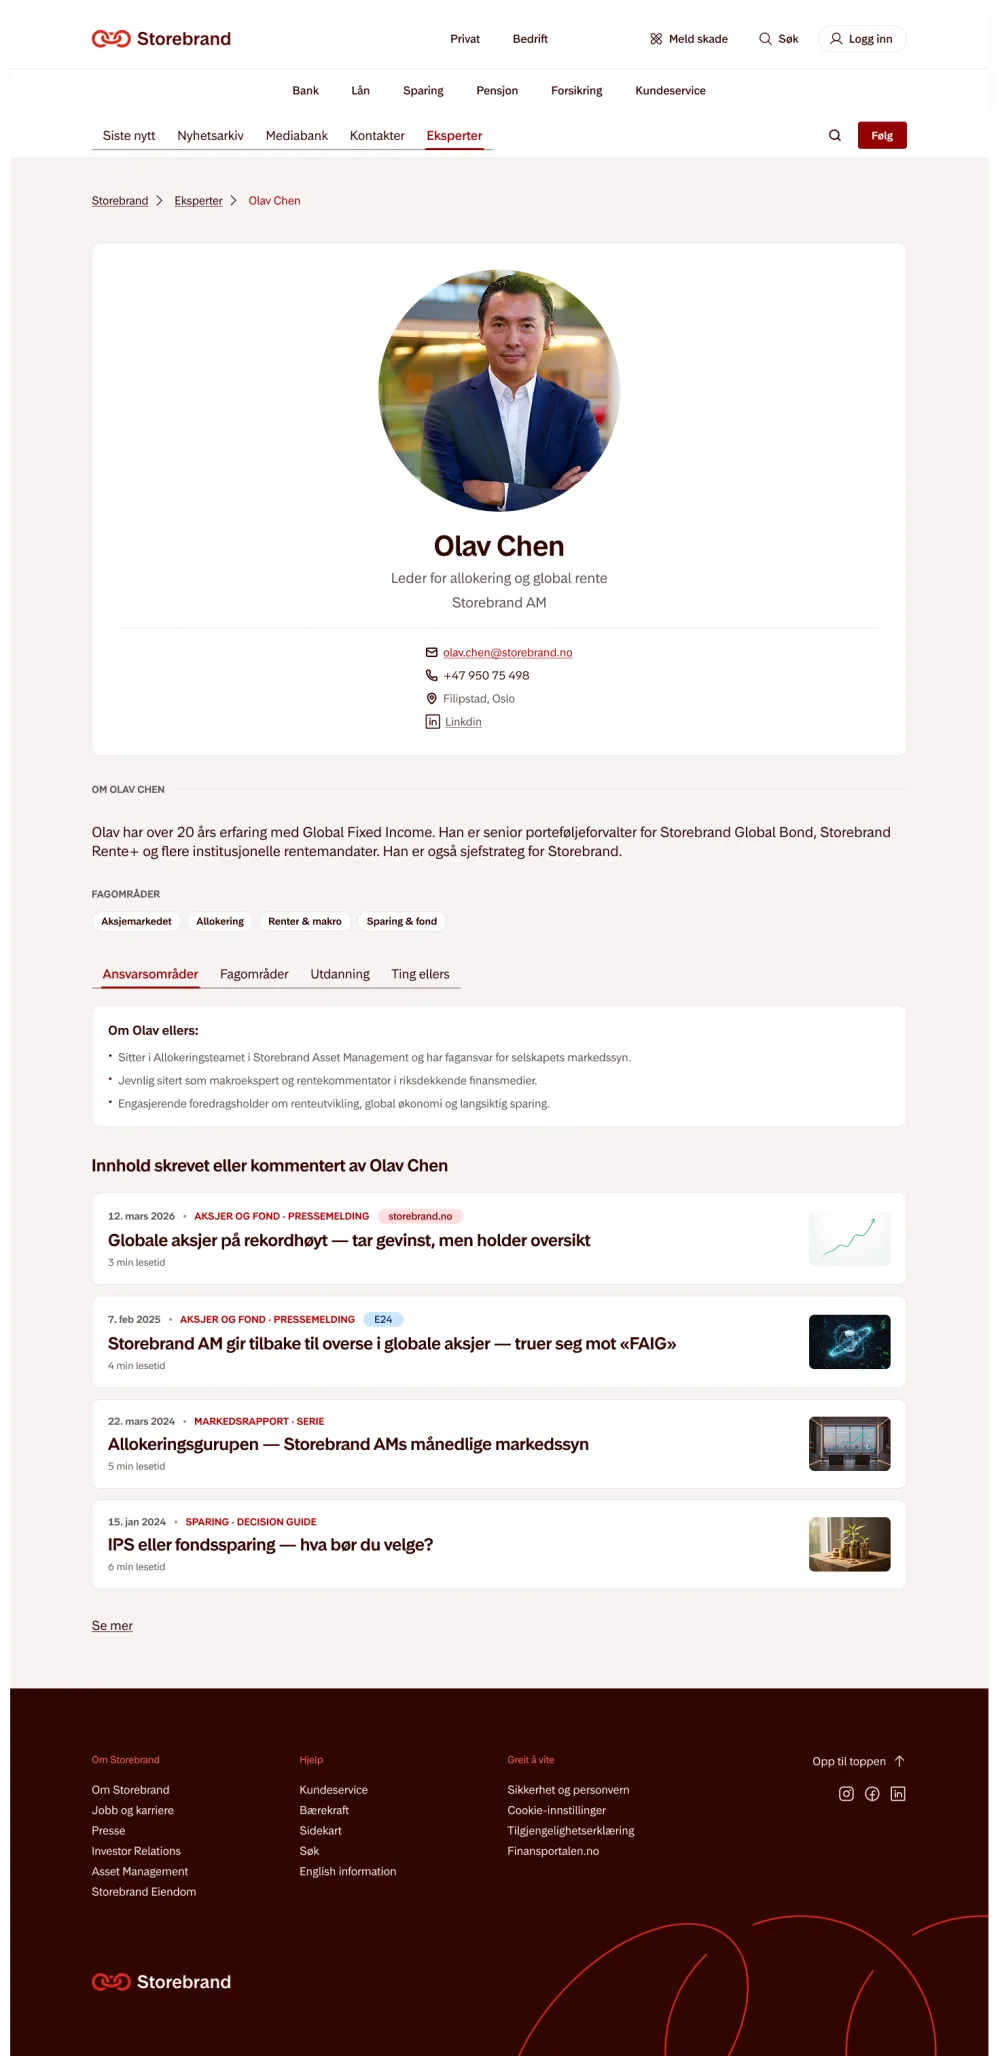
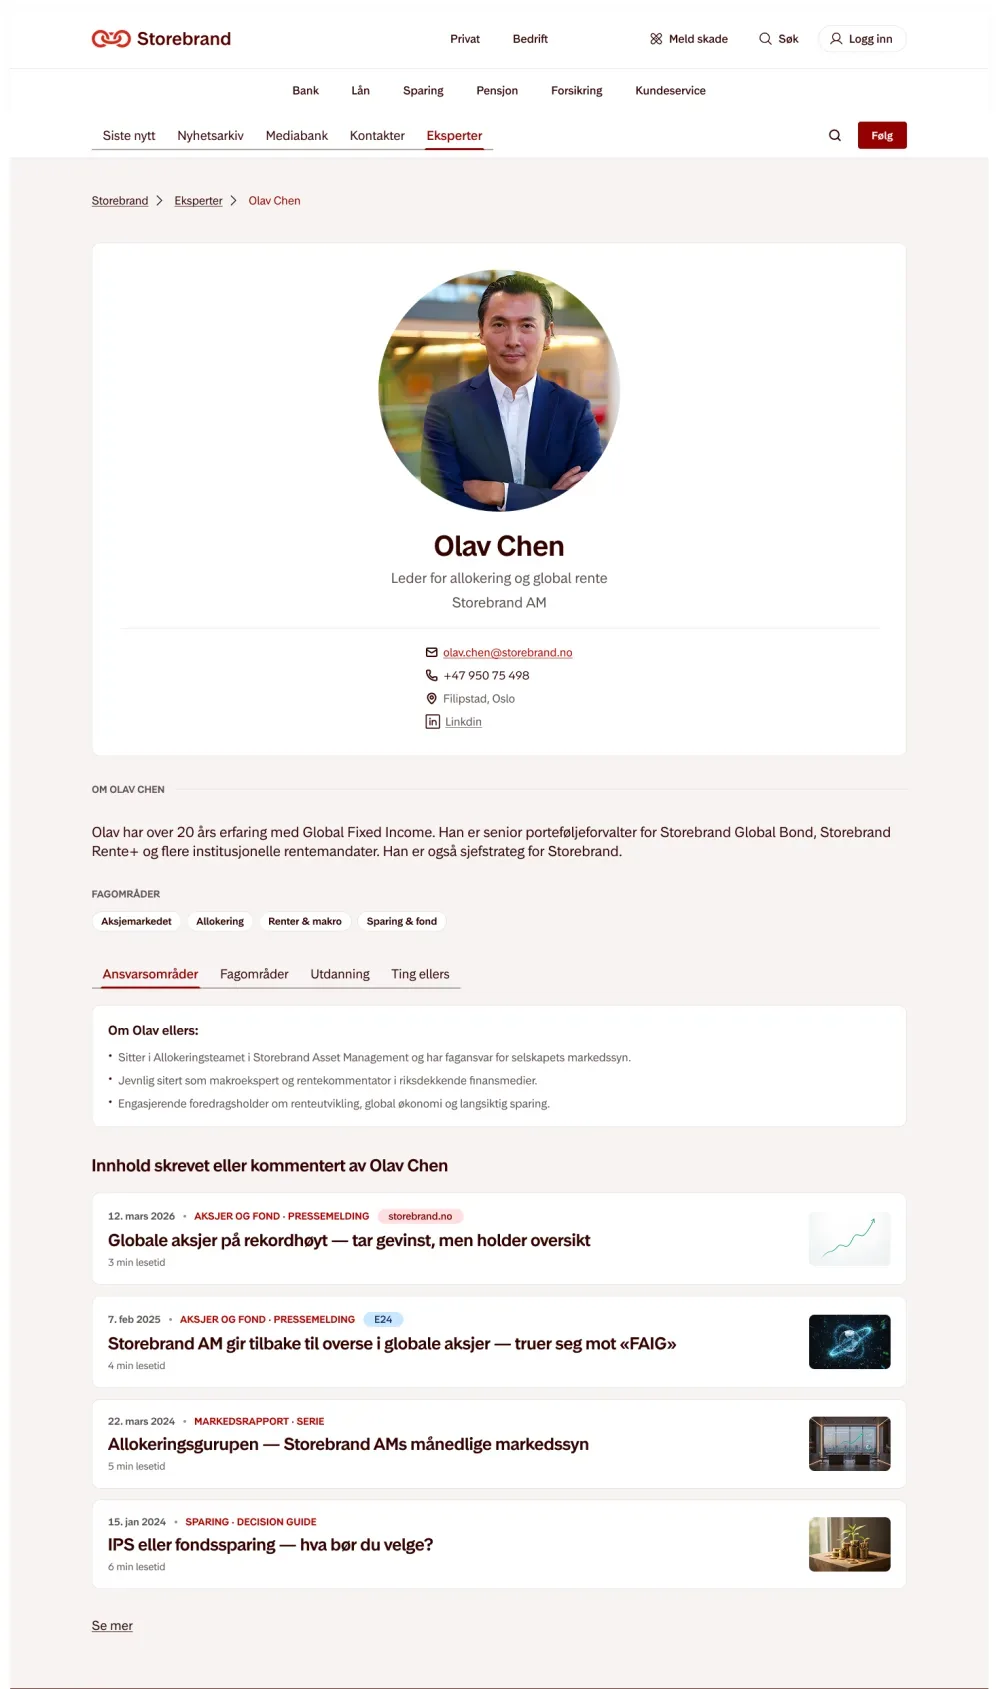
Bytt kontaktbildet og beskjær footeren av Storebrand-bildene
«I dag»-bildet på Oversikt-fanen er byttet til en ny skjermdump av
Kontakter-siden, og teksten sier nå at oversikten ligger under presse og
at rolle og fagområde mangler. Den setningen sto også i forslagsteksten
og er strøket der. Det gamle ekspertkort-presse.webp er slettet.

Footeren — den mørke flaten med lenkespaltene og logoen — er beskåret
bort på de fem bildene som hadde den: kontakter, storebrand-idag,
storebrand-etter, eksperter-oversikt og ekspertprofil. Til sammen 2,5 tusen
piksler høyde og 140 kB. width/height i koden følger de nye målene, så
nettleseren reserverer riktig plass.

Rammene i «I dag / Forslag» er like høye igjen, men bildet fyller dem nå
med object-fit: cover og beskjæres nedover. Den nye kontaktskjermdumpen
er 1:2,5, og skalert ned til å passe i en fast ramme ble den en smal
stripe. object-position: top holder toppen synlig, og et pluss nederst
på midten signaliserer at klikk åpner hele bildet.

.sb-shot fikk egne målregler for bildet framfor å arve dem fra
.sb-figure img — uten det rendrer bildet i sin egen pikselbredde når
knappen ligger utenfor en .sb-figure.

Forklaringen i tiltak 05 er kortet ned til én setning og sier nå at
AI-modeller vektlegger erfaring, ekspertise, autoritet og tillit, og at
profilene gjøres lesbare gjennom schema-markup og sameAs. Avsnittet om
skissene og de tre stikkordene under bildene er fjernet.

Claude-Session: https://claude.ai/code/session_01WZx12vgaZAjMBemNceu2g9

diff --git a/src/styles/storebrand.css b/src/styles/storebrand.css
@@ -407,6 +407,17 @@ body.case-storebrand {
   border-radius: 14px;
   overflow: hidden;
 }
+/* .sb-shot brukes både inne i .sb-figure og i .sb-pair, så bildet får sine egne
+   målregler her framfor å arve dem fra .sb-figure img. Uten dette rendrer bildet
+   i sin egen pikselbredde og blir klippet av overflow: hidden. */
+.sb-shot img {
+  display: block;
+  width: 100%;
+  height: auto;
+  border: 1px solid var(--line);
+  border-radius: 14px;
+  background: #fff;
+}
 .sb-shot.tall { max-height: 60vh; }
 .sb-shot.tall img { border-radius: 14px 14px 0 0; }
 .sb-shot.tall::after {
@@ -573,11 +584,9 @@ body.case-storebrand {
 .sb-ia-shot-title { display: block; color: var(--sb-ink); font-weight: 400; }
 
 /* ── I DAG / FORSLAG SIDE OM SIDE ── */
-/* Hvert forslag står ved siden av det det erstatter. Rammene er like høye og
-   skalerer hele skjermdumpen ned til å passe, så de to bildene står på linje
-   og alt innholdet er synlig uten å klikke. Merkelappen over er alltid én
-   linje, og forklaringen står under bildet — da starter begge bildene på
-   samme høyde uansett hvor lang teksten er. */
+/* Hvert forslag står ved siden av det det erstatter, i rammer av samme høyde.
+   Merkelappen over er alltid én linje, og forklaringen står under bildet — da
+   starter begge bildene på samme høyde uansett hvor lang teksten er. */
 .sb-pair {
   display: grid;
   grid-template-columns: 1fr;
@@ -586,24 +595,72 @@ body.case-storebrand {
   margin-top: 2rem;
 }
 .sb-pair .sb-ba-label { margin-bottom: 0.6rem; }
+/* Begge rammene er like høye. Skjermdumpene har vidt ulike høyde/bredde-forhold
+   — fra 1:1 til 1:2,5 — så bildet fyller rammen med object-fit: cover og
+   beskjæres nedover framfor å skaleres ned til en smal stripe.
+   object-position: top holder toppen av siden synlig, og klikk åpner hele. */
 .sb-pair-visual {
   display: block;
   width: 100%;
-  height: clamp(20rem, 46vw, 32rem);
-  padding: 1rem;
-  border: 1px solid var(--line);
+  height: clamp(18rem, 40vw, 30rem);
+  padding: 0;
+  border: 0;
+  background: none;
   border-radius: 14px;
-  background: #fff;
+  overflow: hidden;
+  position: relative;
   cursor: zoom-in;
 }
-/* Bildet fyller rammen, og object-fit: contain skalerer hele skjermdumpen ned
-   til å passe inni. Da kan det verken renne utenfor eller bli beskåret. */
 .sb-pair-visual img {
   display: block;
   width: 100%;
   height: 100%;
-  object-fit: contain;
+  object-fit: cover;
+  object-position: top;
+  border: 1px solid var(--line);
+  border-radius: 14px;
+  background: #fff;
 }
+/* Uttoning mot seksjonens papirbakgrunn, så det harde avklippet nederst
+   leses som tilsiktet. */
+.sb-pair-visual::after {
+  content: '';
+  position: absolute;
+  left: 0; right: 0; bottom: 0;
+  height: 32%;
+  pointer-events: none;
+  border-radius: 0 0 14px 14px;
+  background: linear-gradient(transparent, var(--sb-paper));
+}
+/* Her holder et pluss: rammen er beskåret, ikke en fullside, så den trenger
+   bare et signal om at bildet kan åpnes. Knappen har aria-label, derfor er
+   merket skjult for skjermlesere. Sirkelen står nederst på midten, samme
+   plassering som teksthintet på fullsidebildene i tiltak 02. */
+.sb-pair-zoom {
+  position: absolute;
+  left: 50%;
+  bottom: 1.2rem;
+  transform: translateX(-50%);
+  z-index: 1;
+  width: 3.25rem;
+  height: 3.25rem;
+  border-radius: 50%;
+  background: var(--sb-maroon);
+}
+/* Strekene er tegnet framfor å være et «+»-tegn: da sitter krysset nøyaktig i
+   senter uansett skriftmetrikk, og tykkelsen kan styres uavhengig av lengden. */
+.sb-pair-zoom::before,
+.sb-pair-zoom::after {
+  content: '';
+  position: absolute;
+  left: 50%;
+  top: 50%;
+  transform: translate(-50%, -50%);
+  background: var(--sb-paper);
+  border-radius: 1px;
+}
+.sb-pair-zoom::before { width: 1.5rem; height: 2px; }
+.sb-pair-zoom::after { width: 2px; height: 1.5rem; }
 .sb-pair figcaption {
   margin-top: 0.9rem;
   font-size: 0.85rem;
@@ -651,14 +708,6 @@ body.case-storebrand {
   line-height: 1.75;
   font-weight: 300;
   margin-bottom: 1.25rem;
-}
-.sb-proto-tags { display: flex; flex-wrap: wrap; gap: 0.5rem; margin-top: 2rem; }
-.sb-proto-tags span {
-  font-size: 0.78rem;
-  padding: 0.4rem 0.85rem;
-  border-radius: 999px;
-  border: 1px solid var(--line);
-  color: var(--dim);
 }
 
 /* ── WIKIPEDIA / SITERTE DOMENER ── */

diff --git a/src/pages/Storebrand.jsx b/src/pages/Storebrand.jsx
@@ -222,7 +222,7 @@ export default function Storebrand() {
               src="/bilder/storebrand/storebrand-idag.webp"
               alt="Artikkelside på storebrand.no i full lengde — lang og tettpakket"
               width={1100}
-              height={7699}
+              height={7104}
               loading="lazy"
             />
             <span className="sb-shot-hint">Klikk for hele siden</span>
@@ -335,20 +335,14 @@ export default function Storebrand() {
         <h2 className="sb-title reveal">Fra spredte kontaktkort til et ekspertunivers</h2>
         <p className="sb-body reveal">
           Storebrand har ekspertene, men profilene finnes bare som spredte, statiske kort med
-          lite innhold. Jeg fant dem tre steder: som et enkelt kontaktkort, som en
-          «Kontakter»-bolk nederst i artiklene, og på en egen side under presserommet.
-          Gjensidige og DNB har kommet lenger med fullverdige forfatterprofiler — men ingen har
-          bygget et helhetlig, AI-lesbart ekspertunivers. Det var åpningen.
+          lite innhold. AI-modeller vektlegger erfaring, ekspertise, autoritet og tillit, og
+          ekspertprofilene gjøres lesbare for AI gjennom schema-markup og sameAs-koblinger i
+          koden.
         </p>
 
-        <p className="sb-body reveal" style={{ marginTop: '3rem' }}>
-          Jeg skisset hvordan det kunne se ut i stedet. Hver skisse står ved siden av det den
-          erstatter — velg et av de tre stedene, og klikk på et bilde for å se hele det.
-        </p>
-
-        {/* Hvert forslag står ved siden av det det erstatter. Rammene er like
-            høye og viser hele skjermdumpen skalert ned, så de to står på linje
-            og ingenting er skjult. Klikk forstørrer. */}
+        {/* Hvert forslag står ved siden av det det erstatter, i rammer av samme
+            høyde. Skjermdumpene beskjæres nedover framfor å skaleres ned — se
+            .sb-pair-visual. Plusset signaliserer at klikk åpner hele bildet. */}
         <div className="sb-proto">
           <div className="sb-proto-tabs reveal">
             {expertPrototypes.map((item, index) => (
@@ -382,6 +376,7 @@ export default function Storebrand() {
                   height={proto.before.height}
                   loading="lazy"
                 />
+                <span className="sb-pair-zoom" aria-hidden="true" />
               </button>
               <figcaption>
                 <span className="sb-pair-title">{proto.before.title}</span>
@@ -404,18 +399,13 @@ export default function Storebrand() {
                   height={proto.height}
                   loading="lazy"
                 />
+                <span className="sb-pair-zoom" aria-hidden="true" />
               </button>
               <figcaption>
                 <span className="sb-pair-title">{proto.title}</span>
                 {proto.desc}
               </figcaption>
             </figure>
-          </div>
-
-          <div className="sb-proto-tags reveal">
-            {proto.tags.map((tag) => (
-              <span key={tag}>{tag}</span>
-            ))}
           </div>
         </div>
       </section>

diff --git a/src/data/storebrand.js b/src/data/storebrand.js
@@ -153,20 +153,19 @@ export const expertPrototypes = [
   {
     tab: 'Oversikt',
     title: 'Oversiktsside for eksperter',
-    desc: 'Én inngang til alle ekspertene, filtrerbar på forretningsområde og rolle. I dag ligger den samlede oversikten under presserommet, et sted kunder aldri går.',
+    desc: 'Én inngang til alle ekspertene, filtrerbar på forretningsområde og rolle.',
     before: {
-      title: 'Presse › Kontakter',
-      note: '18 kort i et rutenett, ni merket «Pressekontakt» — og ingen som lenker videre.',
-      image: '/bilder/storebrand/ekspertkort-presse.webp',
-      alt: 'Siden Presse › Kontakter på storebrand.no med et rutenett av pressekontaktkort',
-      width: 2392,
-      height: 1340,
+      title: 'Kontakter',
+      note: 'I dag ligger den samlede oversikten under presse. Rollen og fagområdet til kontaktene mangler.',
+      image: '/bilder/storebrand/kontakter.webp',
+      alt: 'Kontakter-siden på storebrand.no i full lengde, med et rutenett av kontaktkort uten rolle eller fagområde',
+      width: 1516,
+      height: 3728,
     },
     image: '/bilder/storebrand/eksperter-oversikt.webp',
     alt: 'Skisse av oversiktsside med filtrerbare ekspertkort på storebrand.no',
     width: 1400,
-    height: 1887,
-    tags: ['Filtrering', 'Én inngang', 'Skisse'],
+    height: 1361,
   },
   {
     tab: 'Profil',
@@ -183,8 +182,7 @@ export const expertPrototypes = [
     image: '/bilder/storebrand/ekspertprofil.webp',
     alt: 'Skisse av fullverdig ekspertprofil med bio, fagområder og artikkelliste',
     width: 1000,
-    height: 2056,
-    tags: ['Bio', 'Artikkelliste', 'Fagområder'],
+    height: 1689,
   },
   {
     tab: 'Artikkel',
@@ -202,7 +200,6 @@ export const expertPrototypes = [
     alt: 'Skisse av artikkelside med tydelig forfatterkort som lenker til ekspertprofilen',
     width: 1200,
     height: 1452,
-    tags: ['Schema.org', 'sameAs', 'Forfatterkort'],
   },
 ];
 
@@ -378,5 +375,5 @@ export const iaAfter = {
   image: '/bilder/storebrand/ia/storebrand-etter.webp',
   alt: 'Omstrukturert artikkelside på storebrand.no i full lengde, med spørsmålsoverskrifter, faktaboks, punktlister, tabell, FAQ og ekspertkort',
   width: 1100,
-  height: 2196,
+  height: 1792,
 };
